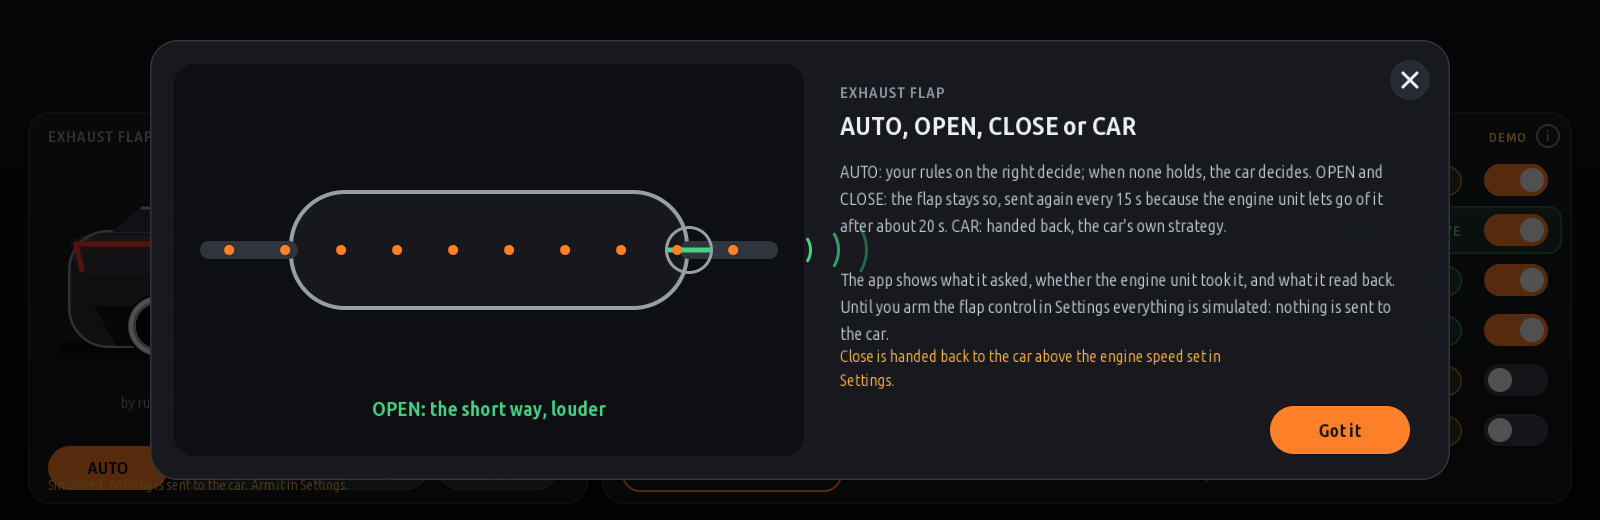
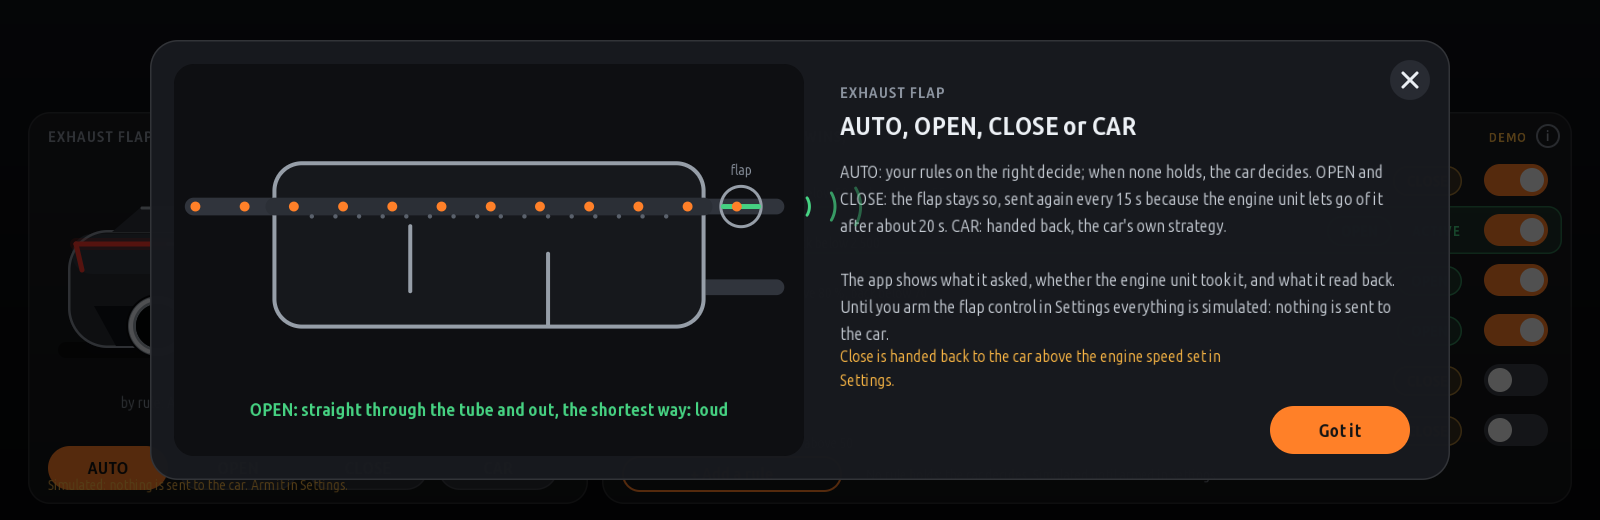
Exhaust: the flap help shows the silencer cut open; Datalog: say what the corrected time is
The flap picture now shows how a valved rear silencer works: the inlet goes on as a
perforated tube to the flap and the first tail pipe, chambers with baffles lie
around it and the second tail pipe leaves from the last one. Closed, the gas winds
through the chambers; open, it goes straight through the tube.

Runs: the corrected column is std. air, with a line under the table saying what it
is (25 C, 99 kPa, SAE J1349, so hot and cold days compare).

diff --git a/apps/p96_exhaust/art.js b/apps/p96_exhaust/art.js
@@ -242,24 +242,36 @@ const ART = {
         cv.text('grey: ash, it stays', x + w / 2, y + h - 22, 14, DIM, { align: 'center', literal: true });
     },
     flap(cv, x, y, w, h, t) {
-        const p = loop(t, 4), open = p < 0.5, a = open ? lerp(90, 0, ease(Math.min(1, p / 0.15))) : lerp(0, 90, ease(Math.min(1, (p - 0.5) / 0.15)));
-        const cx = x + w / 2, cy = y + h / 2 - 10;
-        cv.roundRect(cx - 200, cy - 60, 400, 120, 56, '#16181c');
-        cv.strokeRoundRect(cx - 200, cy - 60, 400, 120, 56, 4, GREY);
-        cv.line(cx - 280, cy, cx - 200, cy, 18, PIPE);
-        cv.line(cx + 200, cy, cx + 280, cy, 18, PIPE);
-        flapGlyph(cv, cx + 200, cy, 24, open ? 'OPEN' : 'CLOSED', a);
-        // the gas: straight through when open, round the silencer when closed
-        for (let i = 0; i < 10; i++) {
-            const f = (t * 0.5 + i / 10) % 1;
-            if (open) cv.circle(cx - 280 + f * 560, cy, 5, C.orange);
-            else {
-                const ang = f * Math.PI * 2;
-                cv.circle(cx + Math.cos(ang) * 170, cy + Math.sin(ang) * 40, 5, C.amber);
-            }
-        }
-        if (open) for (let k = 0; k < 3; k++) cv.arc(cx + 300 + k * 18, cy, 20 + k * 10, 23 + k * 10, 60, 120, withA(C.green, 1 - k * 0.3), { round: true });
-        cv.text(open ? 'OPEN: the short way, louder' : 'CLOSED: the long way, quiet', cx, y + h - 40, 20, open ? C.green : C.amber, { font: 'bold', align: 'center', literal: true });
+        // the rear silencer cut open (owner, 2026-11-26 23:51: draw how it really works). The inlet pipe goes on through
+        // the silencer as a perforated tube to the flap and the first tail pipe; around it are chambers with baffle
+        // walls, and a second tail pipe leaves from the last chamber. Flap closed: the tube is shut at its end, the gas
+        // leaves through the holes and winds through the chambers, the sound is damped. Flap open: most of the gas
+        // goes straight through the tube and out, the shortest way, loud.
+        const p = loop(t, 6), open = p < 0.5, a = open ? lerp(90, 0, ease(Math.min(1, p / 0.12))) : lerp(0, 90, ease(Math.min(1, (p - 0.5) / 0.12)));
+        const cx = x + w / 2, cy = y + h / 2 - 20, S = Math.min(1, w / 640), X = (v) => cx + v * S, Y = (v) => cy + v * S;
+        cv.line(X(-300), Y(-34), X(-218), Y(-34), 18 * S, PIPE);
+        cv.line(X(218), Y(-34), X(292), Y(-34), 16 * S, PIPE);
+        cv.line(X(218), Y(48), X(292), Y(48), 16 * S, PIPE);
+        cv.roundRect(X(-220), Y(-80), 440 * S, 170 * S, 30 * S, '#16181c');
+        cv.strokeRoundRect(X(-220), Y(-80), 440 * S, 170 * S, 30 * S, 4, GREY);
+        // the perforated tube, its holes, and the baffle walls of the chambers under it
+        cv.line(X(-218), Y(-34), X(218), Y(-34), 18 * S, '#2b2f36');
+        for (let i = -180; i <= 180; i += 24) cv.circle(X(i), Y(-24), 2.2 * S, '#5a616c');
+        cv.line(X(-80), Y(-14), X(-80), Y(52), 4, GREY);
+        cv.line(X(60), Y(14), X(60), Y(86), 4, GREY);
+        flapGlyph(cv, X(256), Y(-34), 22 * S, open ? 'OPEN' : 'CLOSED', a);
+        cv.text('flap', X(256), Y(-66), 14, DIM, { align: 'center', literal: true });
+        // the gas: a dot moves along the way it takes now
+        const way = open ? [[-300, -34], [300, -34]] : [[-300, -34], [-170, -34], [-150, 10], [-110, 66], [-50, 66], [-10, 30], [40, 0], [90, 0], [140, 40], [218, 48], [300, 48]];
+        const lens = []; let tot = 0;
+        for (let i = 1; i < way.length; i++) { const d = Math.hypot(way[i][0] - way[i - 1][0], way[i][1] - way[i - 1][1]); lens.push(d); tot += d; }
+        const at = (f) => { let d = f * tot; for (let i = 0; i < lens.length; i++) { if (d <= lens[i]) { const k = d / lens[i]; return [lerp(way[i][0], way[i + 1][0], k), lerp(way[i][1], way[i + 1][1], k)]; } d -= lens[i]; } return way[way.length - 1]; };
+        const n = open ? 12 : 16, sp = open ? 0.55 : 0.22;
+        for (let i = 0; i < n; i++) { const q = at((t * sp + i / n) % 1); cv.circle(X(q[0]), Y(q[1]), 5 * S, open ? C.orange : C.amber); }
+        const outY = open ? -34 : 48, waves = open ? 3 : 1;
+        for (let k = 0; k < waves; k++) cv.arc(X(308) + k * 16 * S, Y(outY), (16 + k * 10) * S, (19 + k * 10) * S, 60, 120, withA(open ? C.green : C.amber, open ? 1 - k * 0.3 : 0.5), { round: true });
+        cv.text(open ? 'OPEN: straight through the tube and out, the shortest way: loud' : 'CLOSED: through the chambers of the rear silencer: quiet',
+            cx, y + h - 40, 18, open ? C.green : C.amber, { font: 'bold', align: 'center', literal: true });
     },
     engine(cv, x, y, w, h, t) {
         const cx = x + w / 2, cy = y + h / 2 + 20, r = 120, p = 0.5 + 0.45 * Math.sin(t * 1.3);

diff --git a/apps/p96_datalog/pages.js b/apps/p96_datalog/pages.js
@@ -229,7 +229,7 @@ function runCard(cv, m, x, y, w, h, run, opts) {
     const tw = cv.text(isNum(shown) ? shown.toFixed(2) : '--', x + 20, y + 128, 92, isNum(shown) ? C.text : C.dim, { font: 'num', literal: true });
     cv.text('s', x + 34 + tw, y + 124, 24, C.dim, { literal: true });
     if (running) ltext(cv, 'RUNNING  ' + Math.round(U.speed(m.v.speed) || 0) + ' ' + U.speedU + ', ' + Math.round(log.live().dist) + ' m', x + 20, y + 160, 18, C.orange, 'bold');
-    else if (run && isNum(run.cf)) ltext(cv, 'corrected to standard air: ' + secs(M.correctTime(time, run.cf, true)) + ' s', x + 20, y + 160, 18, C.green);
+    else if (run && isNum(run.cf)) ltext(cv, 'in standard air (25 °C, 99 kPa): ' + secs(M.correctTime(time, run.cf, true)) + ' s, so hot and cold days compare', x + 20, y + 160, 18, C.green);
     else if (run && m.has('intake') && m.has('kPa')) ltext(cv, 'no air data for this run: not corrected', x + 20, y + 160, 18, C.dim);
     else ltext(cv, 'Stop the car, wait for READY, then go.', x + 20, y + 160, 18, C.dim);
     const rows = running ? [] : splitRows(run, U);
@@ -257,7 +257,7 @@ function runTable(cv, m, x, y, w, runs, opts) {
     const cols = [x + 20, x + 78, x + 228, x + 388, x + 548, x + w - 120];
     // columns only for what this car reports: corrected needs the intake air and the outside pressure
     const hasCorr = m.has('intake') && m.has('kPa'), hasAir = m.has('intake') || m.has('charge');
-    [['#', 0, true], [U.dist(len), 1, true], ['corrected', 2, hasCorr], ['trap', 3, true], ['air', 4, hasAir]].forEach((c) => { if (c[2]) ltext(cv, c[0], cols[c[1]], y, 15, C.dim, 'bold'); });
+    [['#', 0, true], [U.dist(len), 1, true], ['std. air', 2, hasCorr], ['trap', 3, true], ['air', 4, hasAir]].forEach((c) => { if (c[2]) ltext(cv, c[0], cols[c[1]], y, 15, C.dim, 'bold'); });
     const shown = runs.slice(-(opts.max || 5));
     const first = runs.length - shown.length;
     shown.forEach((r, i) => {
@@ -283,6 +283,9 @@ function pageRuns(cv, m) {
     UI.card(cv, x, T, w, UI.hh(), 'Runs today', { info: INFO.runsToday });
     if (!runs.length) ltext(cv, 'No runs in this session yet. Stop, wait for READY, go.', x + 20, T + 110, 20, C.dim);
     else runTable(cv, m, x, T + 60, w, runs, { max: 5 });
+    // what "std. air" means, said where the column is (owner, 2026-11-26 23:52: "sta je corrected, nema objasnjenja")
+    const hasCorr = runs.some((r) => isNum(r.cf));
+    if (hasCorr) ltext(cv, 'Std. air: the time this run would take in standard air (25 °C, 99 kPa, SAE J1349): warm air costs power, so runs on hot and cold days compare fairly.', x + 20, UI.bottom() - 44, 15, C.dim);
     const air = m.has('intake') && m.has('charge') ? 'Air: intake after the filter / charge air before the throttle. ' : '';
     ltext(cv, air + 'Times start when the car moves.', x + 20, UI.bottom() - 20, 16, C.dim);
 }
